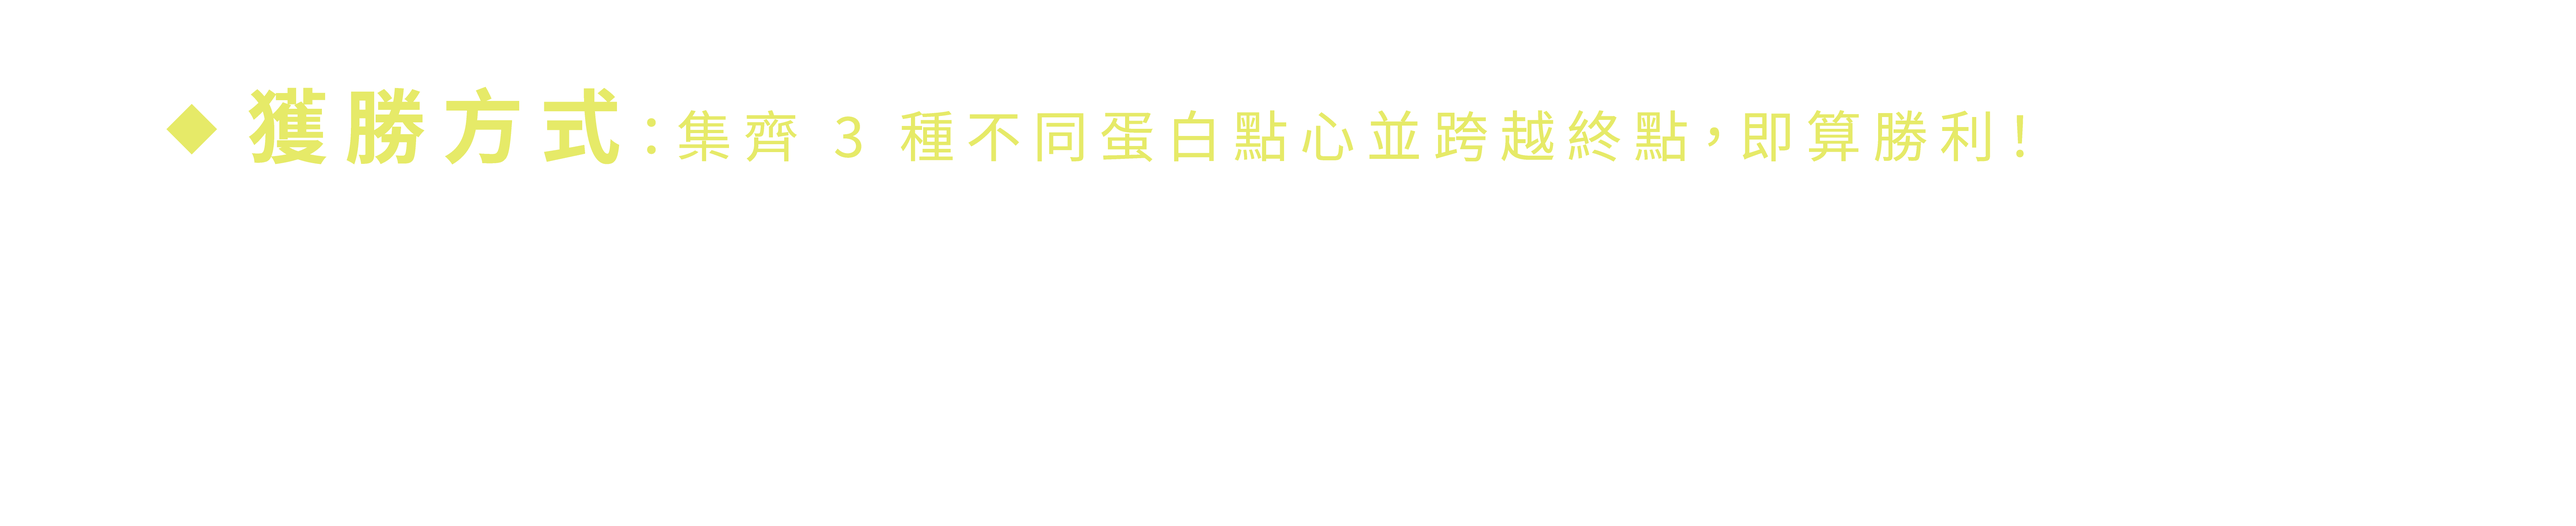
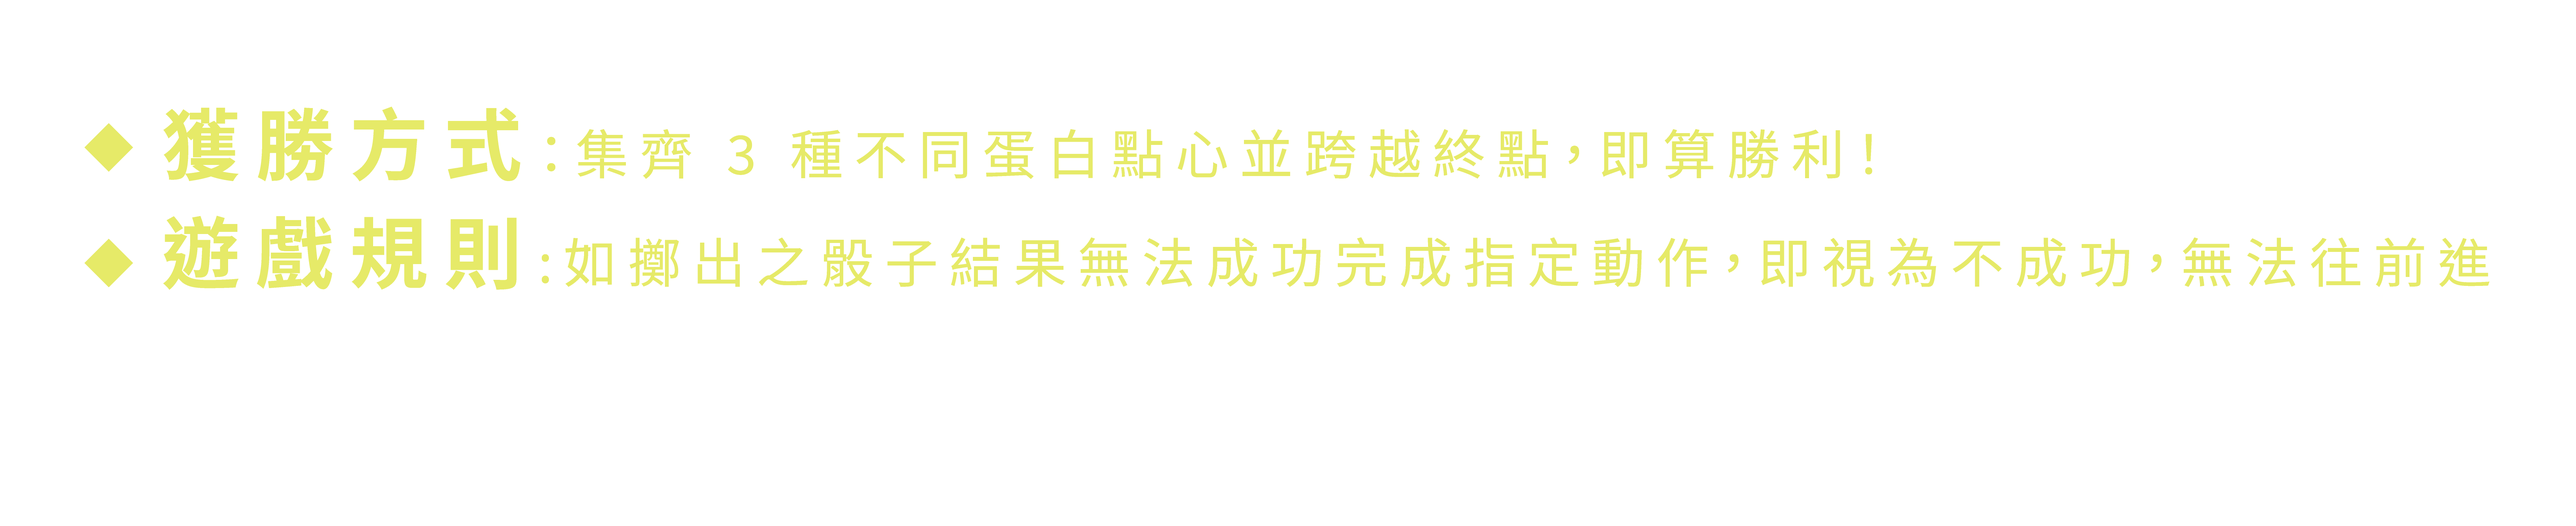
refactor: - update Next.js version and adjust TypeScript configuration fro vercel deployment requirments - change desc related pics

Changed region(s): [[0.0311, 0.1531, 0.7784, 0.3673], [0.0311, 0.398, 0.9652, 0.551]]

diff --git a/app/page.tsx b/app/page.tsx
@@ -585,7 +585,7 @@ export default function NewYearDiceGame() {
             <img
               src={isMobile ? "/01-desc-mobile.png" : "/01-desc-web.png"}
               alt="獲勝方式"
-              className={isMobile ? "scale-[1.1]" : "scale-[1.2]"}
+              className={isMobile ? "scale-[1.1]" : "scale-[1.15]"}
             />
           </section>
           <button
